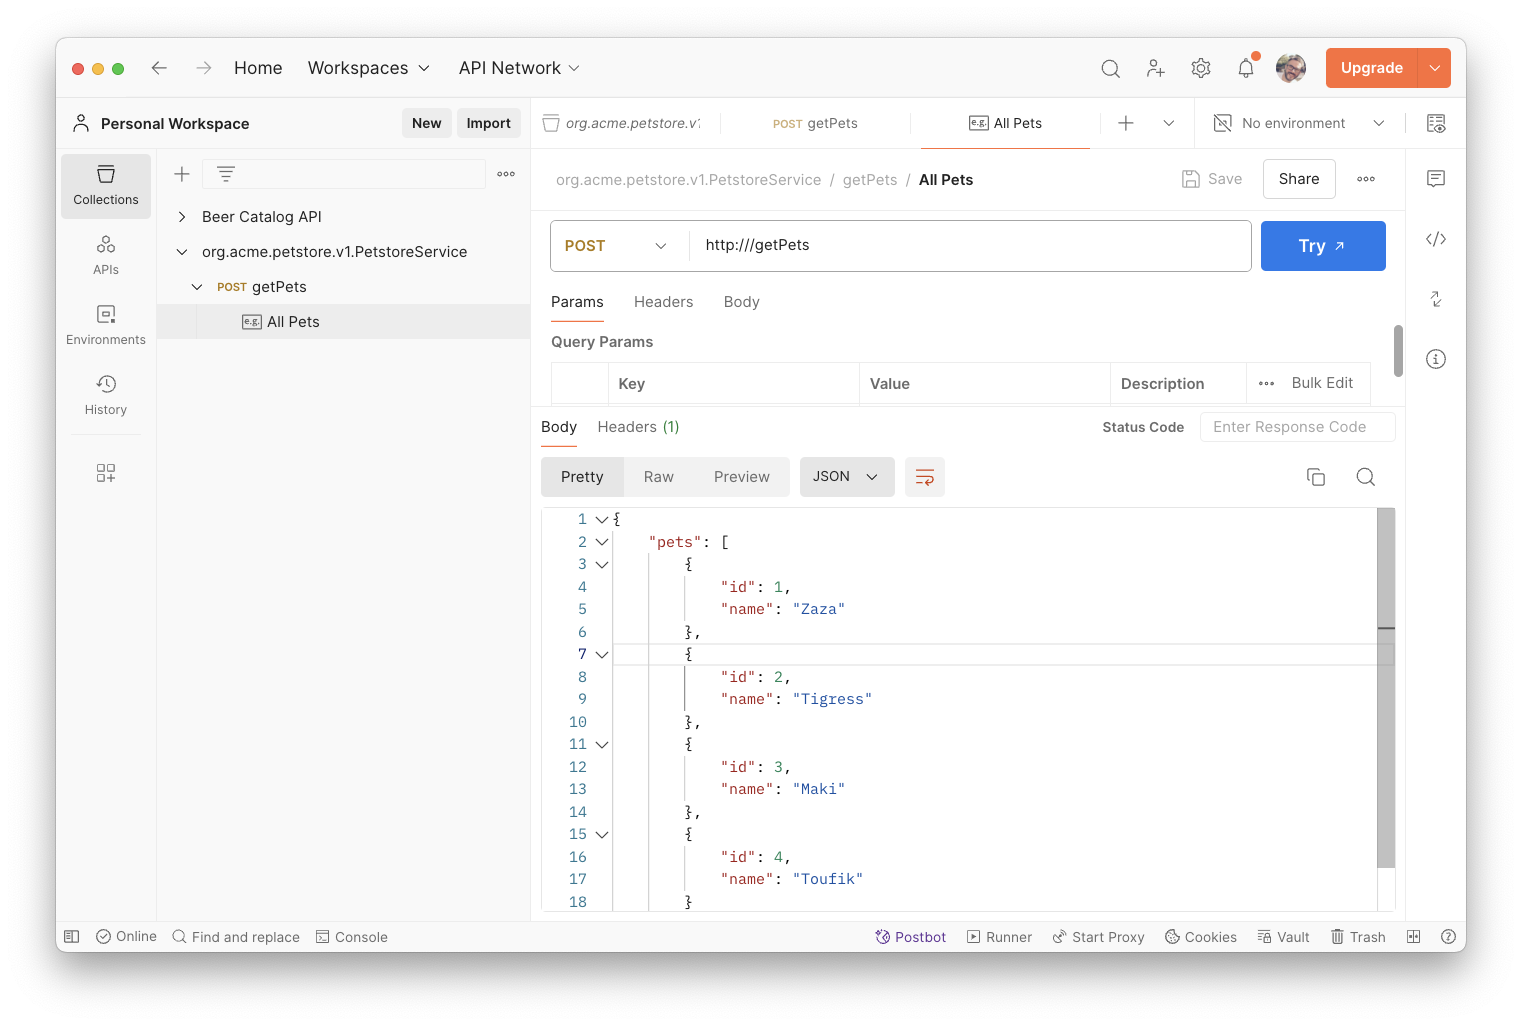
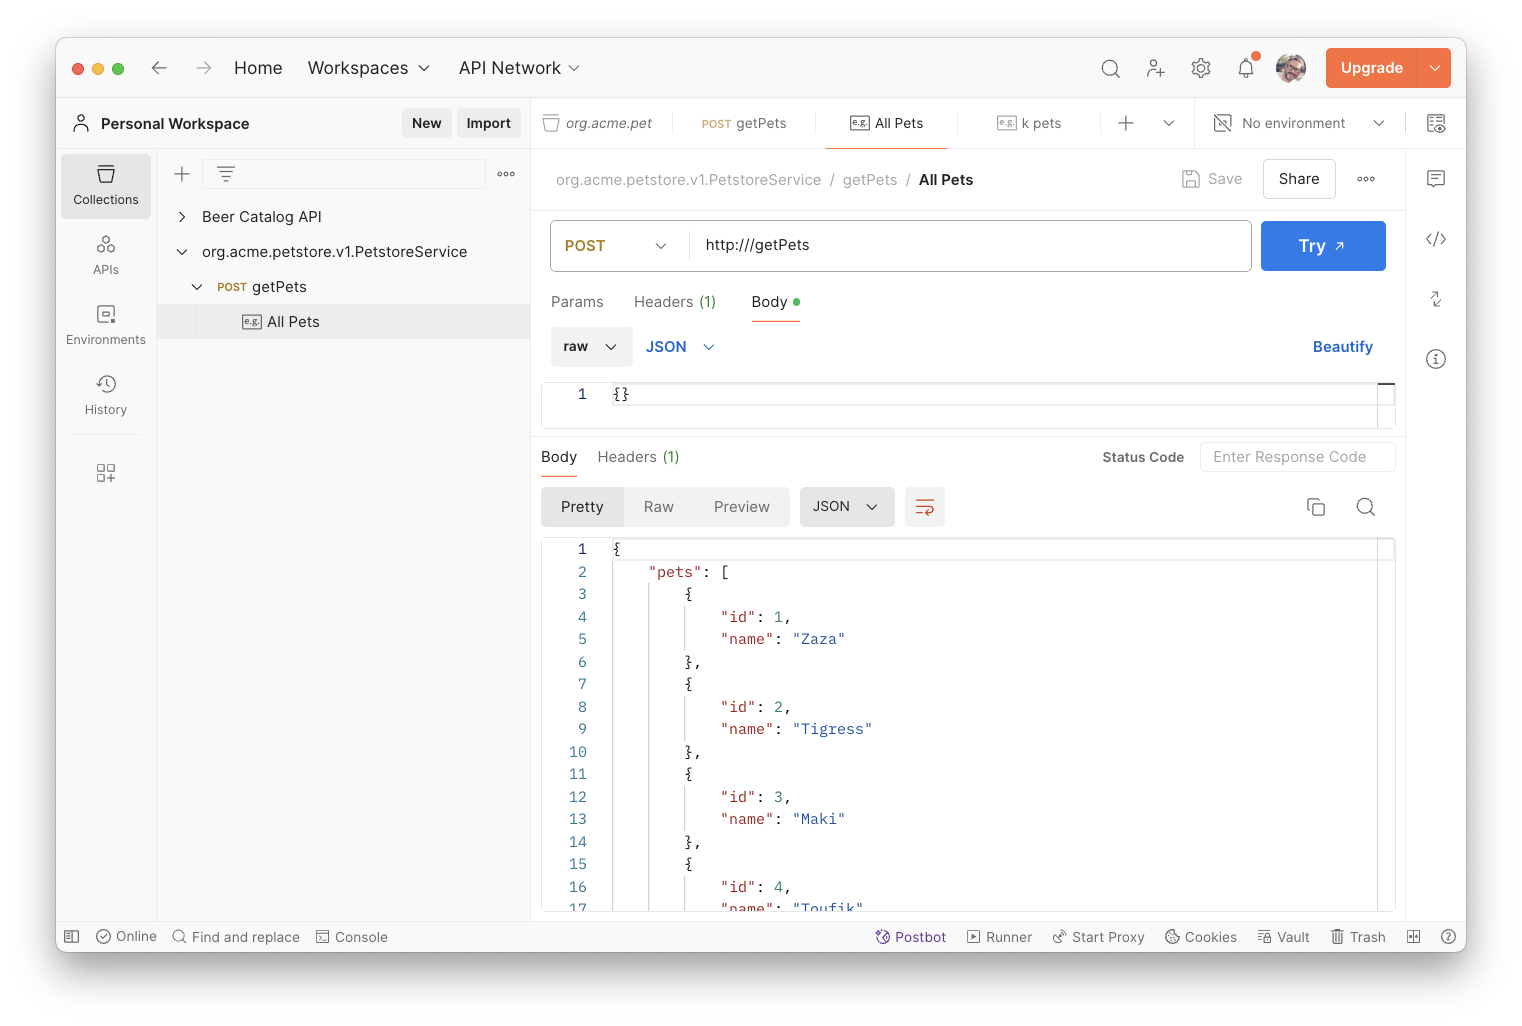
Update screenshots and fix typos on gRPC tutorial Signed-off-by: Laurent Broudoux <laurent.broudoux@gmail.com>

diff --git a/content/documentation/tutorials/first-grpc-mock.md b/content/documentation/tutorials/first-grpc-mock.md
@@ -28,7 +28,7 @@ First mandatory step is obviously to setup Microcks 😉. For gRPC usage, we don
 Run this command below to get your Microcks instance ready:
 
 ```shell
-docker run -p 8585:8080 -p 8686:9090 -it --rm quay.io/microcks/microcks-uber:nightly
+docker run -p 8585:8080 -p 8686:9090 -it --rm quay.io/microcks/microcks-uber:nightly-native
 ```
 
 > This could be on other ports if `8585` or `8686` are already used on your machine.
@@ -85,7 +85,7 @@ From now, we will use this Collection to specify sample data for our mock. This 
 
 1⃣ Add a new Request named `getPets`. Change this request to be a `POST` request and update its URL to `http:///getPets`. This will ensure Microcks will asoociate it to the correct gRPC method,
 
-2⃣ On this request, add a new example with the name of your choice. Edit this example to put a lits of Pets as the result body. Your can copy/paste the JSON snippet below:
+2⃣ On this request, add a new example with the name of your choice. Edit this example to put an empty object as the request body (`{}`) and a list of Pets as the result body. Your can copy/paste the JSON snippet below:
 ```json
 { "pets": [ { "id": 1, "name": "Zaza" }, { "id": 2, "name": "Tigress" }, { "id": 3, "name": "Maki" }, { "id": 4, "name": "Toufik" } ] }
 ```
